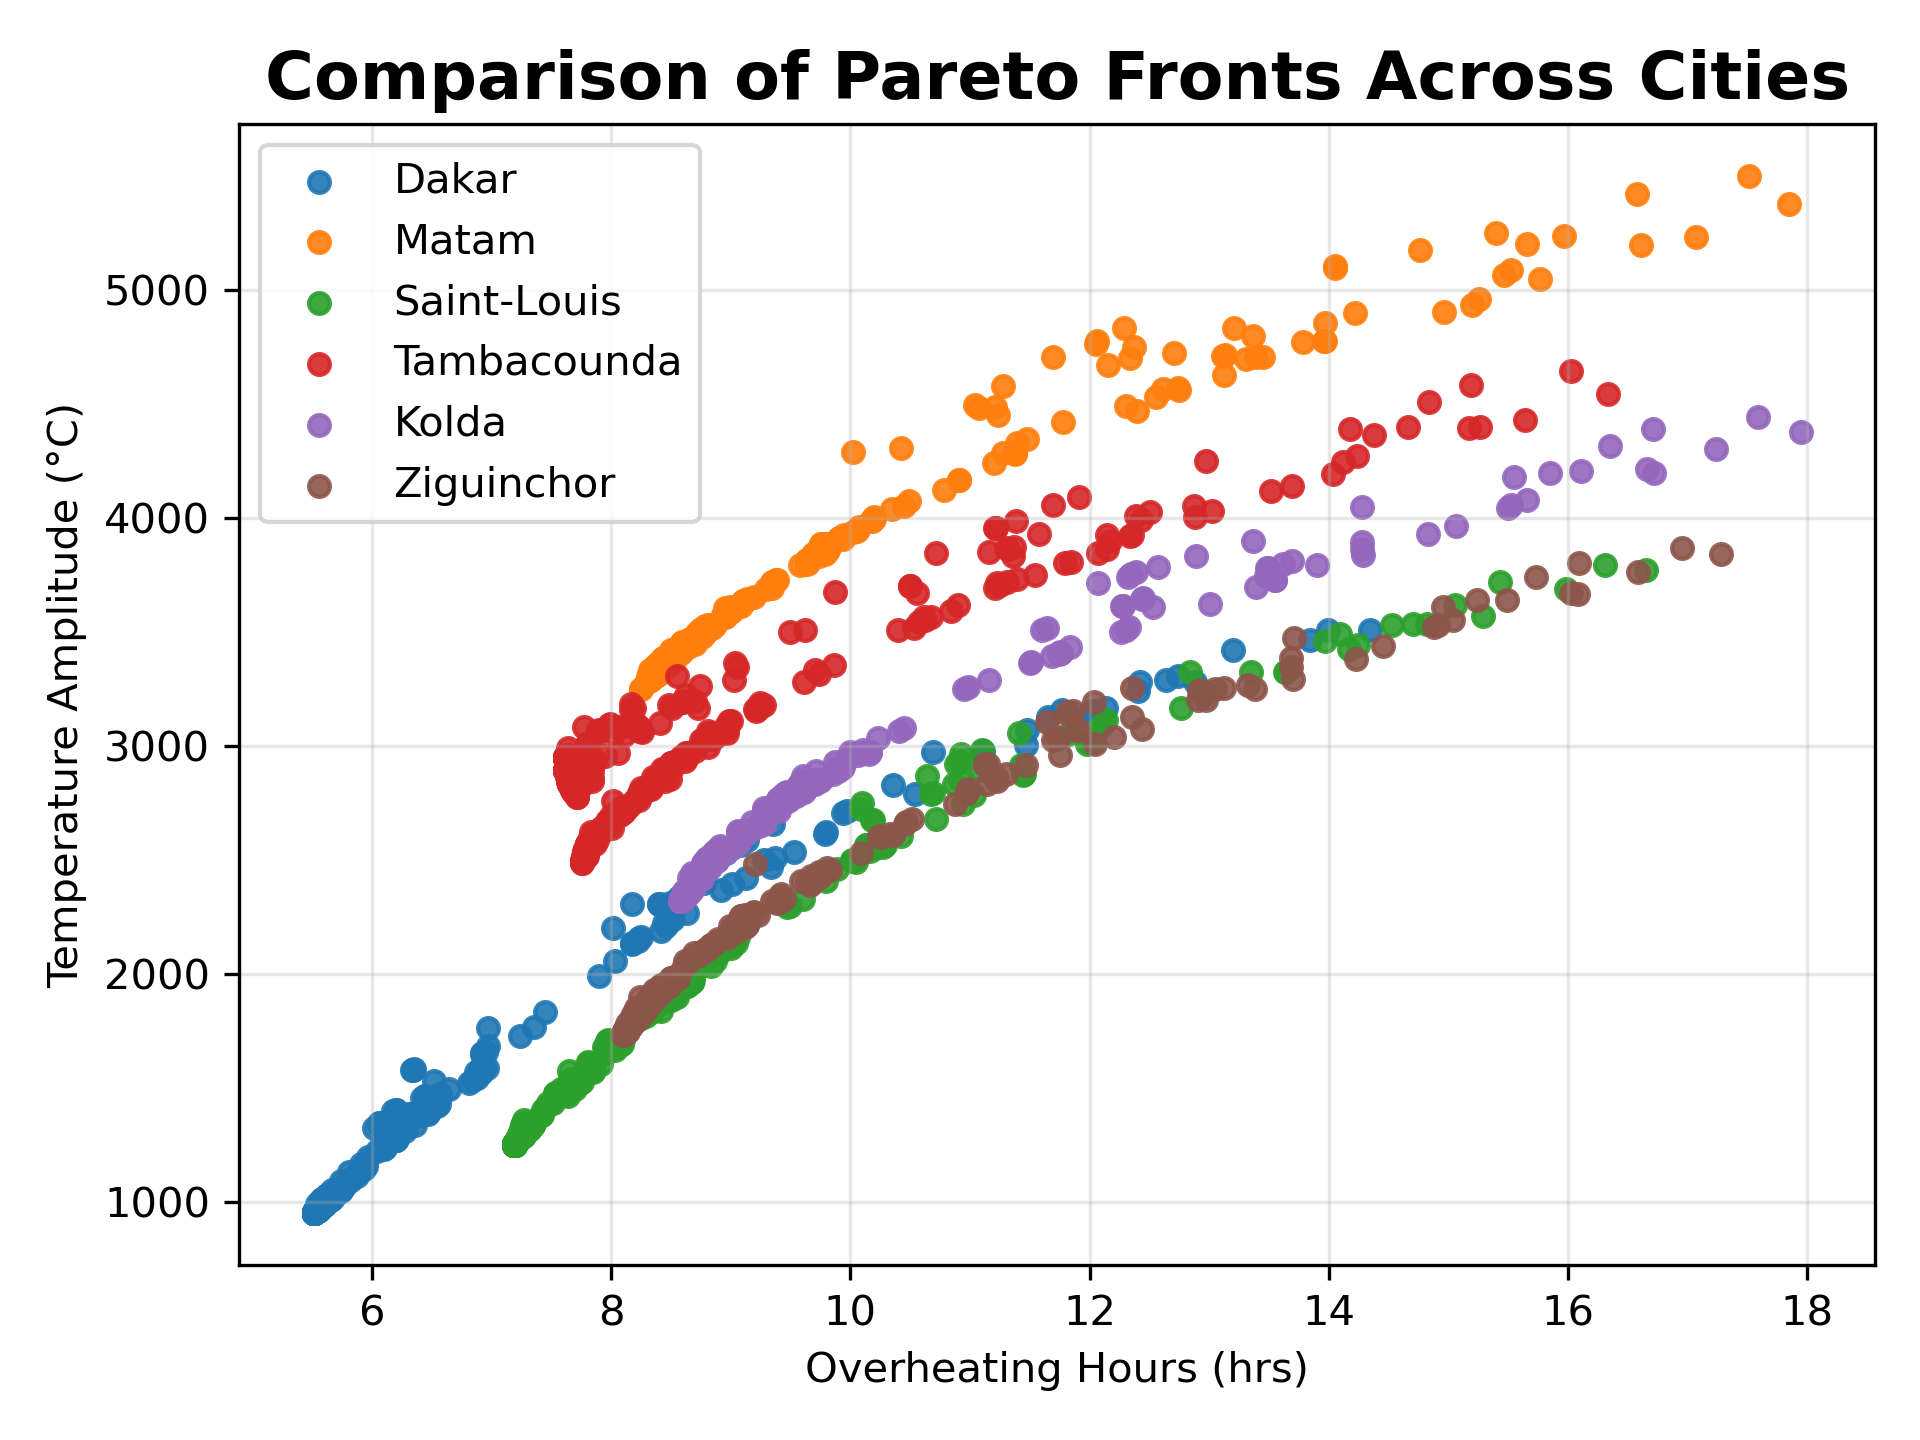
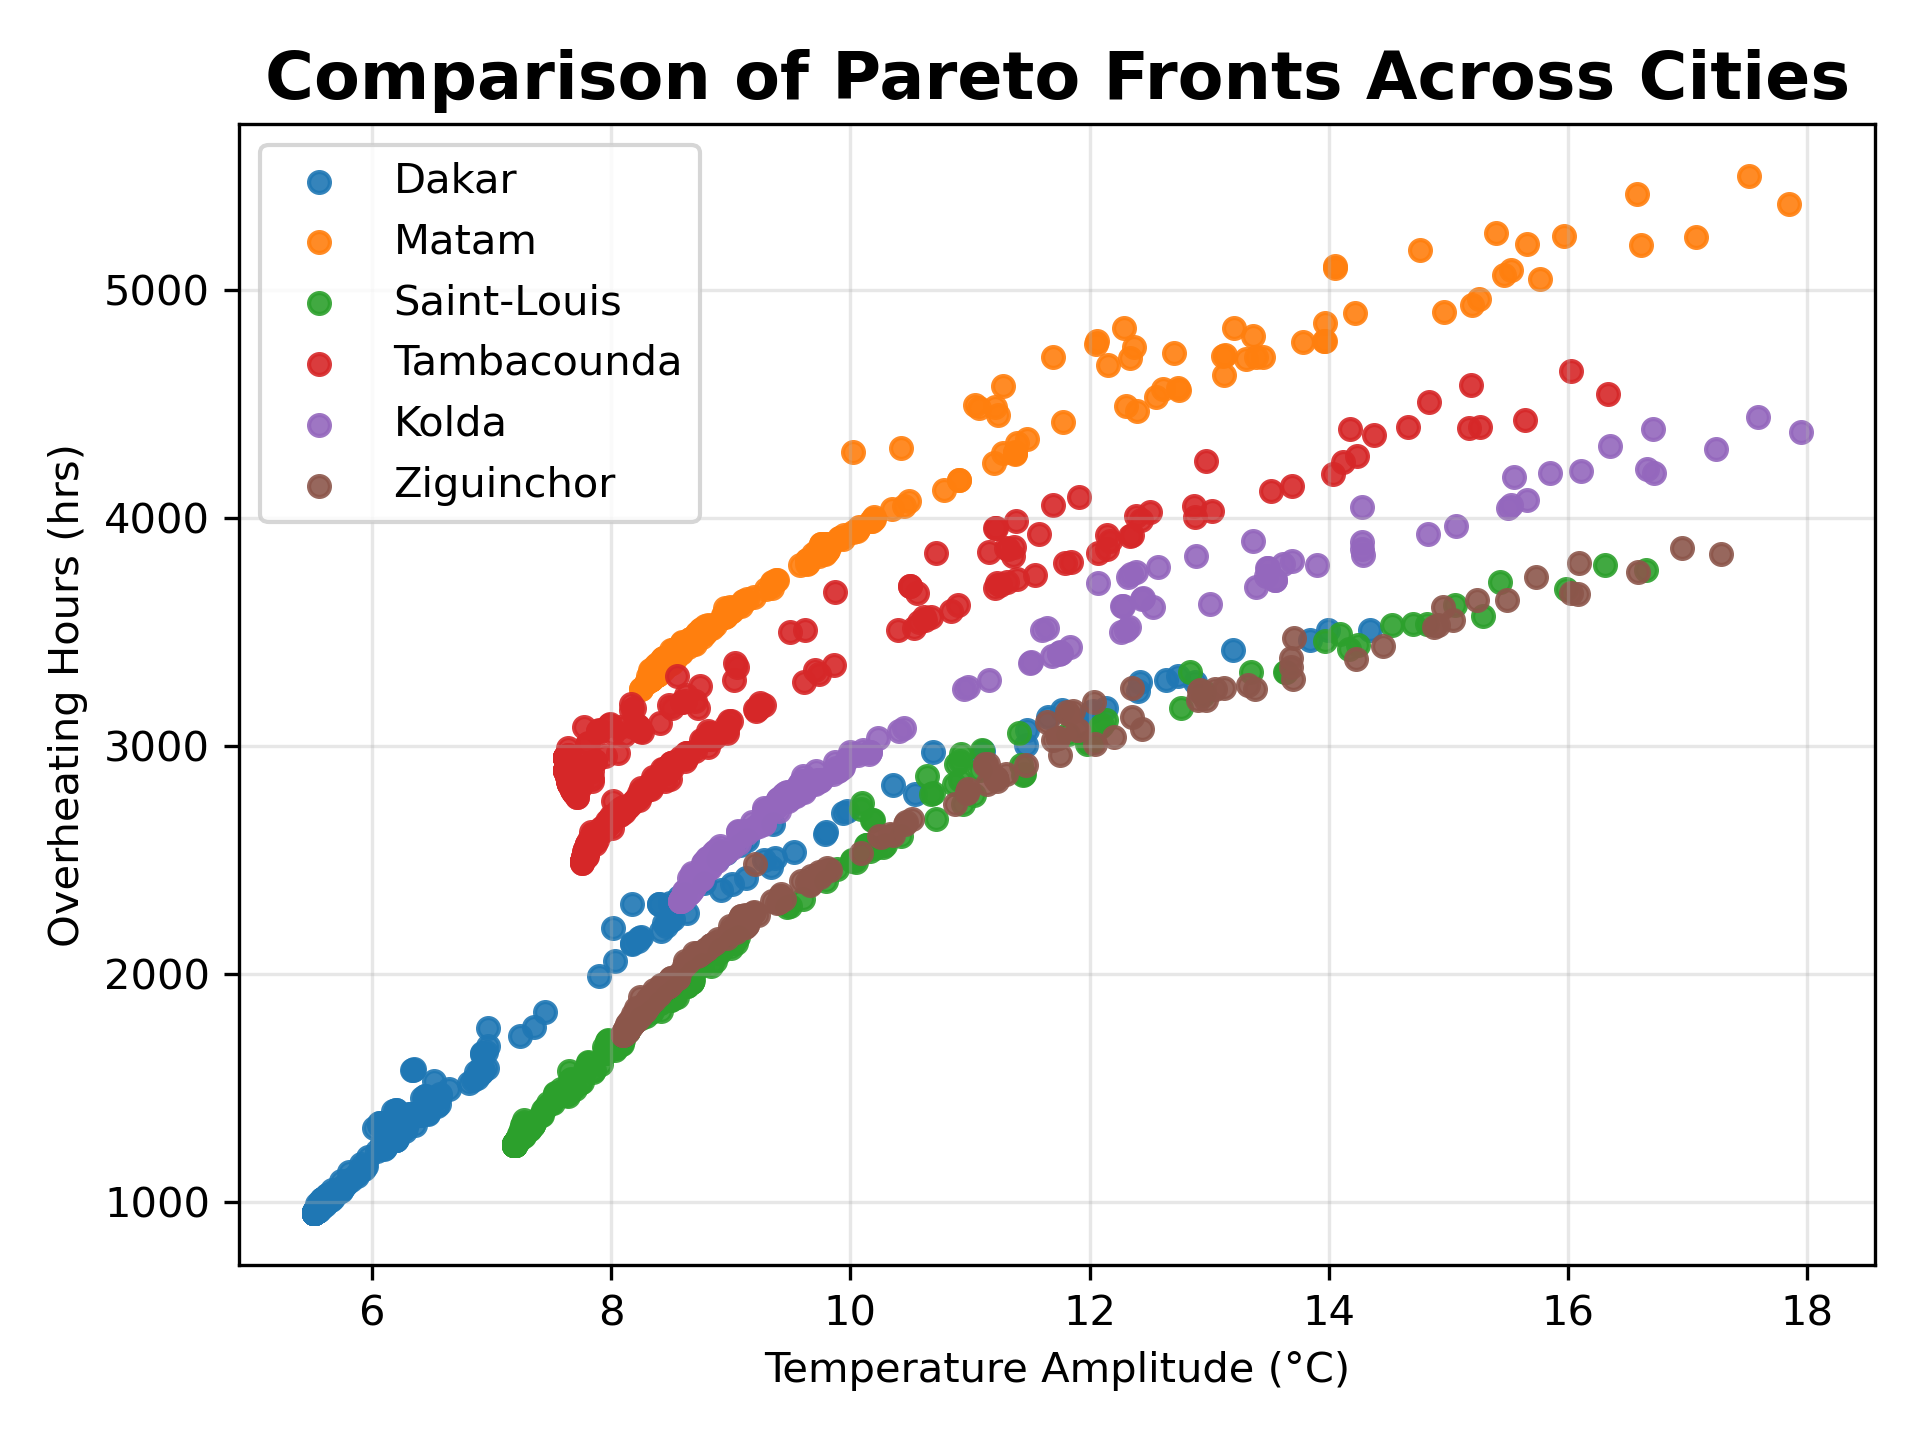
added Pearson Heatmaps and modified Pareto Fronts Figures Axis Annotation

Changed region(s): [[0.0, 0.2812, 0.0625, 0.6875], [0.4062, 0.9375, 0.7188, 0.9688]]

diff --git a/simul/optimisation.py b/simul/optimisation.py
@@ -293,8 +293,8 @@ for city, F_all in all_results.items():
     #idx = np.argsort(F_pareto[:,0])
     #plt.plot(F_pareto[idx,0], F_pareto[idx,1], color='red', linewidth=2)
 
-    plt.xlabel("Overheating Hours (hrs)")
-    plt.ylabel("Temperature Amplitude (°C)")
+    plt.xlabel("Temperature Amplitude (°C)")
+    plt.ylabel("Overheating Hours (hrs)")
     plt.title(f"Pareto Front for {city}", fontsize=18, fontweight='bold')
 
     plt.legend()
@@ -314,8 +314,8 @@ for city, F_all in all_results.items():
     plt.scatter(F_all[:,0], F_all[:,1], s = 25, alpha=0.9, label=city)
 
 plt.legend()
-plt.xlabel("Overheating Hours (hrs)")
-plt.ylabel("Temperature Amplitude (°C)")
+plt.xlabel("Temperature Amplitude (°C)")
+plt.ylabel("Overheating Hours (hrs)")
 plt.title("Comparison of Pareto Fronts Across Cities", fontsize=16, fontweight='bold')
 plt.grid(alpha=0.3)
 plt.tight_layout()
